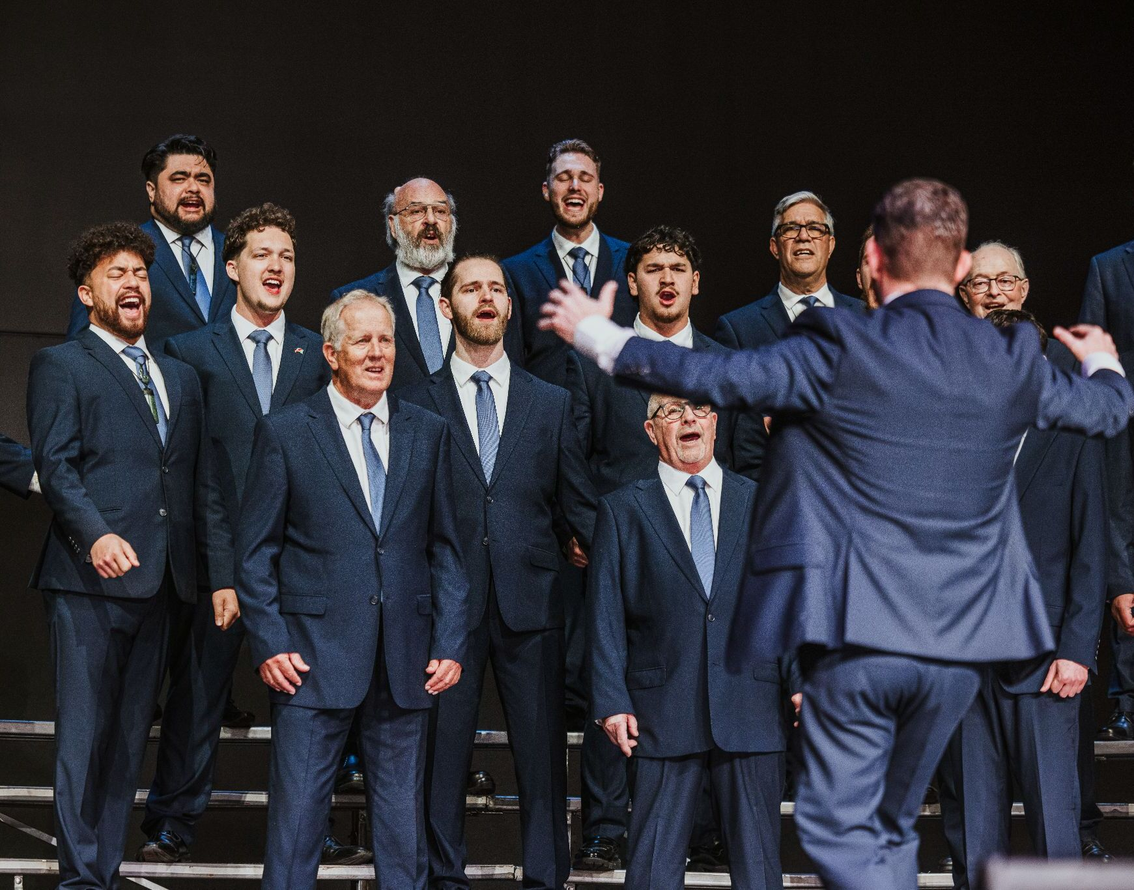
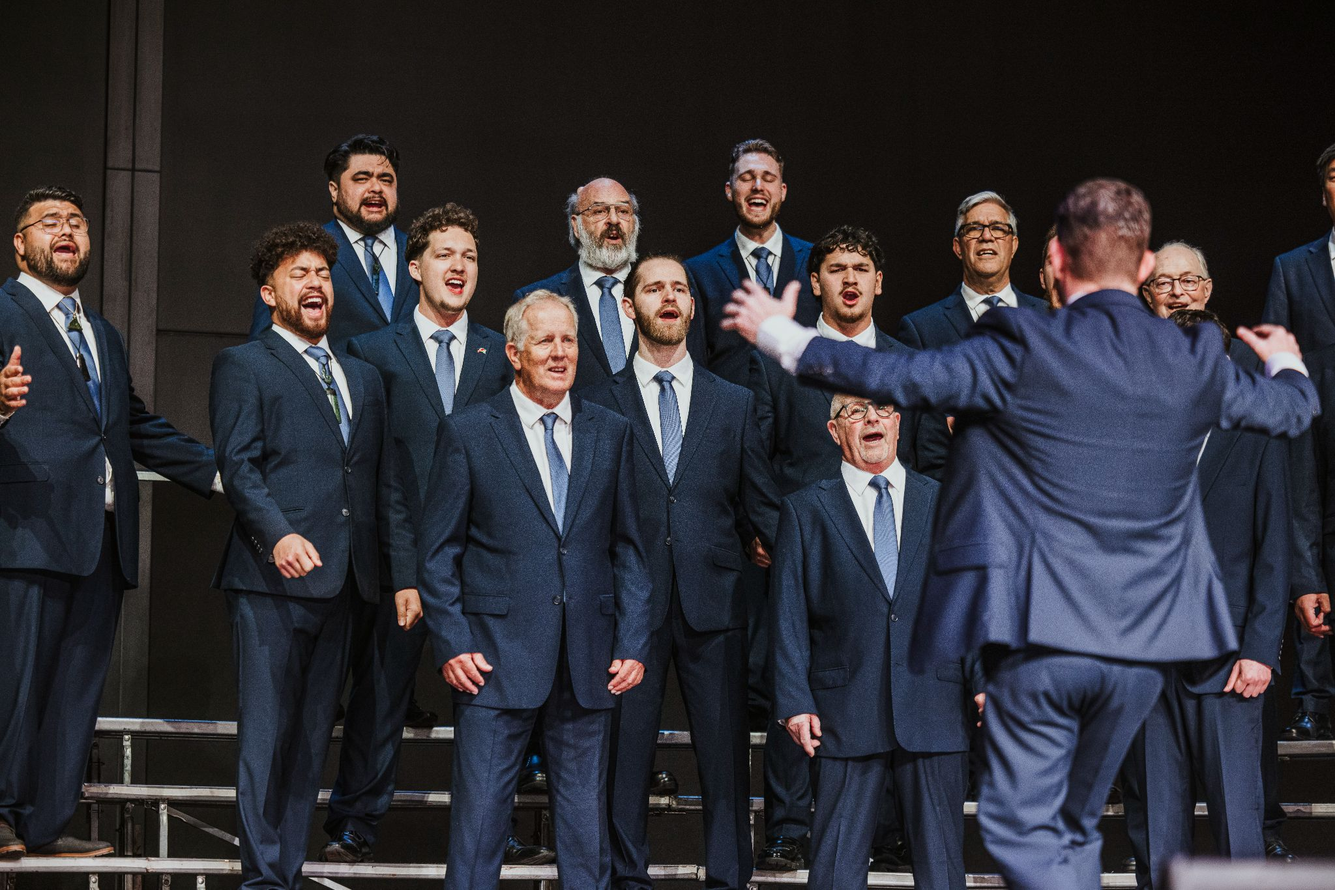
Sync images

diff --git a/public/prototype.html b/public/prototype.html
@@ -612,7 +612,7 @@
 
     <div class="cards chorus-cards" style="--card-min-width: 400px">
 
-      <a data-cke-saved-href="mrh.html" href="/mrh" class="pretty-link" style="--image: url('/images/MRH.jpg'); --position-y: 50%">
+      <a data-cke-saved-href="mrh.html" href="/mrh" class="pretty-link" style="--image: url('/images/MRH-cropped.jpg'); --position-y: 50%">
         Mighty River Harmony
       </a>
 
@@ -633,7 +633,7 @@
 
     <div class="cards quartet-cards" style="--card-min-width: 300px">
 
-      <a data-cke-saved-href="#The-Usual-Suspects" href="#The-Usual-Suspects" class="pretty-link" style="--image: url('/images/The-Usual-Suspects-1.jpg'); --position-y: 5%">
+      <a data-cke-saved-href="#The-Usual-Suspects" href="#The-Usual-Suspects" class="pretty-link" style="--image: url('/images/The-Usual-Suspects-1-600w.jpg'); --position-y: 5%">
         The Usual Suspects
       </a>
 <dialog close="any" id="The-Usual-Suspects" class="quartet-dialog">
@@ -680,7 +680,7 @@
   <img data-cke-saved-src="images/The-Usual-Suspects-2.jpg" src="/images/The-Usual-Suspects-2.jpg" style="--position-y: 5%">
 </dialog>
 
-      <a data-cke-saved-href="#Four-Square" href="#Four-Square" class="pretty-link" style="--image: url('/images/Four-Square-1.jpg'); --position-y: 5%">
+      <a data-cke-saved-href="#Four-Square" href="#Four-Square" class="pretty-link" style="--image: url('/images/Four-Square-1-600w.jpg'); --position-y: 5%">
         Four Square
       </a>
 <dialog close="any" id="Four-Square" class="quartet-dialog">
@@ -719,7 +719,7 @@
   <img data-cke-saved-src="images/Four-Square-2.jpg" src="/images/Four-Square-2.jpg" style="--position-y: 5%">
 </dialog>
 
-      <a data-cke-saved-href="#REDemption" href="#REDemption" class="pretty-link" style="--image: url('/images/REDemption-1.jpg'); --position-y: 5%">
+      <a data-cke-saved-href="#REDemption" href="#REDemption" class="pretty-link" style="--image: url('/images/REDemption-1-600w.jpg'); --position-y: 5%">
         REDemption
       </a>
 <dialog close="any" id="REDemption" class="quartet-dialog">
@@ -753,7 +753,7 @@
   <img data-cke-saved-src="images/REDemption-2.jpg" src="/images/REDemption-2.jpg" style="--position-y: 5%">
 </dialog>
 
-      <a data-cke-saved-href="#Belladonna" href="#Belladonna" class="pretty-link" style="--image: url('/images/Belladonna-1.jpg'); --position-y: 0%">
+      <a data-cke-saved-href="#Belladonna" href="#Belladonna" class="pretty-link" style="--image: url('/images/Belladonna-1-600w.jpg'); --position-y: 0%">
         Belladonna
       </a>
 <dialog close="any" id="Belladonna" class="quartet-dialog">
@@ -788,7 +788,7 @@
 		   </a>
     </p>
   </div>
-  <img data-cke-saved-src="images/Belladonna-2.jpg" src="/images/Belladonna-2.jpg" style="--position-y: 5%">
+  <img data-cke-saved-src="images/Belladonna-2-cropped.jpg" src="/images/Belladonna-2-cropped.jpg" style="--position-y: 5%">
 </dialog>
 
     </div>
